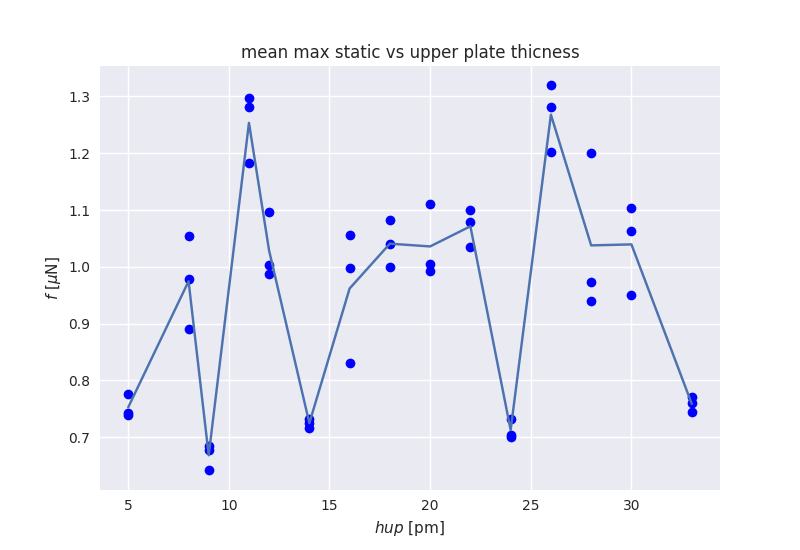
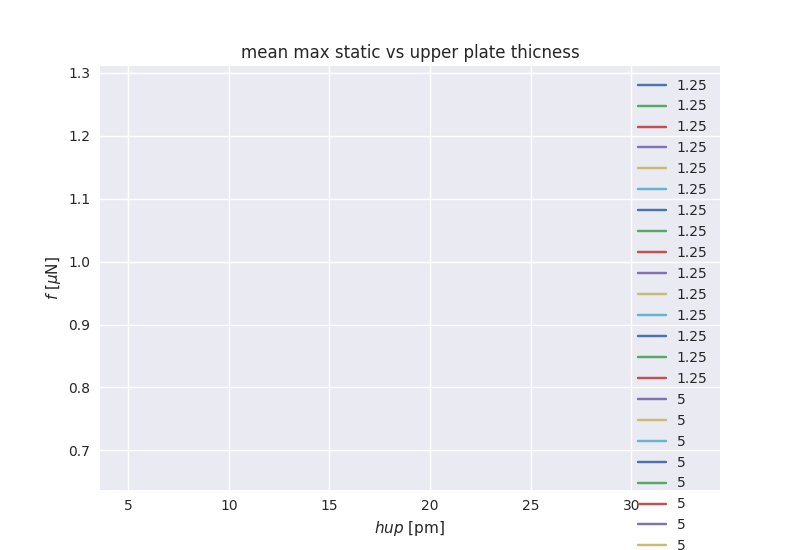
max_static plot now does max static, vs hup for two velocities

diff --git a/python/plot/plot_max_static.py b/python/plot/plot_max_static.py
@@ -39,7 +39,7 @@ def load_max_static(temp, vel, force, orientation, grid, template_lc, template_m
 def plot_max_static_vs_thiccness():
     # user input
     temp = 2300
-    vel = 1.25
+    vel = [5,1.25]
     force = 0.001
     orientation = 100
     grid = (4,4)
@@ -50,24 +50,26 @@ def plot_max_static_vs_thiccness():
     project_dir = '../../'
     fig_dir = project_dir + 'fig/'
 
-    """ # first run vel 5 time 500
-    seeds_5 =  [88753, 12754, 91693] # thicc 80
-    seeds_8 =  [50219, 31693, 19478] # thicc 83
-    seeds_9 =  [81094, 81717, 10840] # thicc 85
-    seeds_11 = [89936, 25987, 82860] # thicc 85
-    seeds_12 = [63620, 46351, 18735] # thicc 90
-    seeds_14 = [62648, 89682, 30607] # thicc 90
-    seeds_16 = [17767, 58195, 19686] # thicc 95
-    seeds_18 = [11084, 50879, 83355] # thicc 93
-    seeds_20 = [81955, 86485, 61282] # thicc 95
-    seeds_22 = [96804, 43682, 88372] # thicc 100
-    seeds_24 = [64771, 82158, 63871] # thicc 100
-    seeds_26 = [95317, 18462, 11729]#thicc 100
-    seeds_28 = [54648,88413,94253] #thicc 103
-    seeds_30 = [92651,19224,85380] #thicc 105
-    seeds_33 = [64798,34149] #thicc 109
-    """
-        # second push run vel 1.25
+    # first run vel 5 time 500
+    _seeds_5 =  [88753, 12754, 91693] # thicc 80
+    _seeds_8 =  [50219, 31693, 19478] # thicc 83
+    _seeds_9 =  [81094, 81717, 10840] # thicc 85
+    _seeds_11 = [89936, 25987, 82860] # thicc 85
+    _seeds_12 = [63620, 46351, 18735] # thicc 90
+    _seeds_14 = [62648, 89682, 30607] # thicc 90
+    _seeds_16 = [17767, 58195, 19686] # thicc 95
+    _seeds_18 = [11084, 50879, 83355] # thicc 93
+    _seeds_20 = [81955, 86485, 61282] # thicc 95
+    _seeds_22 = [96804, 43682, 88372] # thicc 100
+    _seeds_24 = [64771, 82158, 63871] # thicc 100
+    _seeds_26 = [95317, 18462, 11729]#thicc 100
+    _seeds_28 = [54648,88413,94253] #thicc 103
+    _seeds_30 = [92651,19224,85380] #thicc 105
+    _seeds_33 = [64798,34149] #thicc 109
+    
+
+
+    # second push run vel 1.25
     seeds_5 = [71361,91111,63445] # 80
     seeds_8 = [12890,62608,29899] # 83
     seeds_9 = [70529,45585,64900]
@@ -84,9 +86,11 @@ def plot_max_static_vs_thiccness():
     seeds_30 = [81636,35286,69718] # 105
     seeds_33 = [90953,90762,47980] # 109
 
-    seeds = [seeds_5, seeds_8, seeds_9, seeds_11, seeds_12, seeds_14, 
+    seeds = {1.25: [seeds_5, seeds_8, seeds_9, seeds_11, seeds_12, seeds_14, 
             seeds_16, seeds_18, seeds_20, seeds_22, seeds_24, seeds_26, 
-            seeds_28, seeds_30, seeds_33]
+            seeds_28, seeds_30, seeds_33], 5: [_seeds_5, _seeds_8, _seeds_9, _seeds_11, _seeds_12, _seeds_14, 
+            _seeds_16, _seeds_18, _seeds_20, _seeds_22, _seeds_24, _seeds_26, 
+            _seeds_28, _seeds_30, _seeds_33]}
 
 
     hup = [5,8,9,11,12,14,16,18,20,22,24,26,28,30,33]
@@ -97,16 +101,21 @@ def plot_max_static_vs_thiccness():
     template_lc = load_curve_dir + 'load_curves_temp{}_vel{}_force{}_or{}_seed*_errgrid{}_{}.txt'
     template_ms = max_static_dir + 'max_static_temp{}_vel{}_force{}_or{}_seed*_errgrid{}_{}.txt'
     style.use('seaborn') 
+    #fig, ax = plt.subplots(2,15)
+    #axs = axs.ravel()
+    all_mean_static = np.zeros(len(seeds[1.25])*2)
 
-    all_mean_static = np.zeros(len(seeds))
-    for i, seed in enumerate(seeds):
-        ms_all, mean_static = load_max_static(temp, vel, force, orientation, grid, 
-                                              template_lc, template_ms, seed) 
-        all_mean_static[i] = mean_static
-        for ms in ms_all:
-            plt.plot(hup[i], ms, 'ob')
-    plt.plot(hup, all_mean_static, label = 'mean')
-        
+    fig_num = 0
+    
+    for vel, _seeds in seeds.items():
+        for i, seed in enumerate(_seeds):
+            ms_all, mean_static = load_max_static(temp, vel, force, orientation, grid, 
+                                                  template_lc, template_ms, seed) 
+            all_mean_static[i] = mean_static
+            plt.plot(hup[i], mean_static, label=vel)
+            #for ms in ms_all:
+            #    plt.plot(hup[i], ms, 'ob')
+        plt.legend()
     plt.xlabel(r"$hup$ [pm]")
     plt.ylabel(r"$f$ [$\mu$N]")
     plt.title('mean max static vs upper plate thicness')

diff --git a/python/plot/plot_load_curves.py b/python/plot/plot_load_curves.py
@@ -63,6 +63,10 @@ def load_max_static(temp, vel, force, orientation, grid, template_lc, template_m
     mean_static = mean(ms_all, axis = 0)
     return ms_all, mean_static
 
+
+def plot_max_static_for_speeds():
+
+
 """
 # extract push times
 push_times = []
